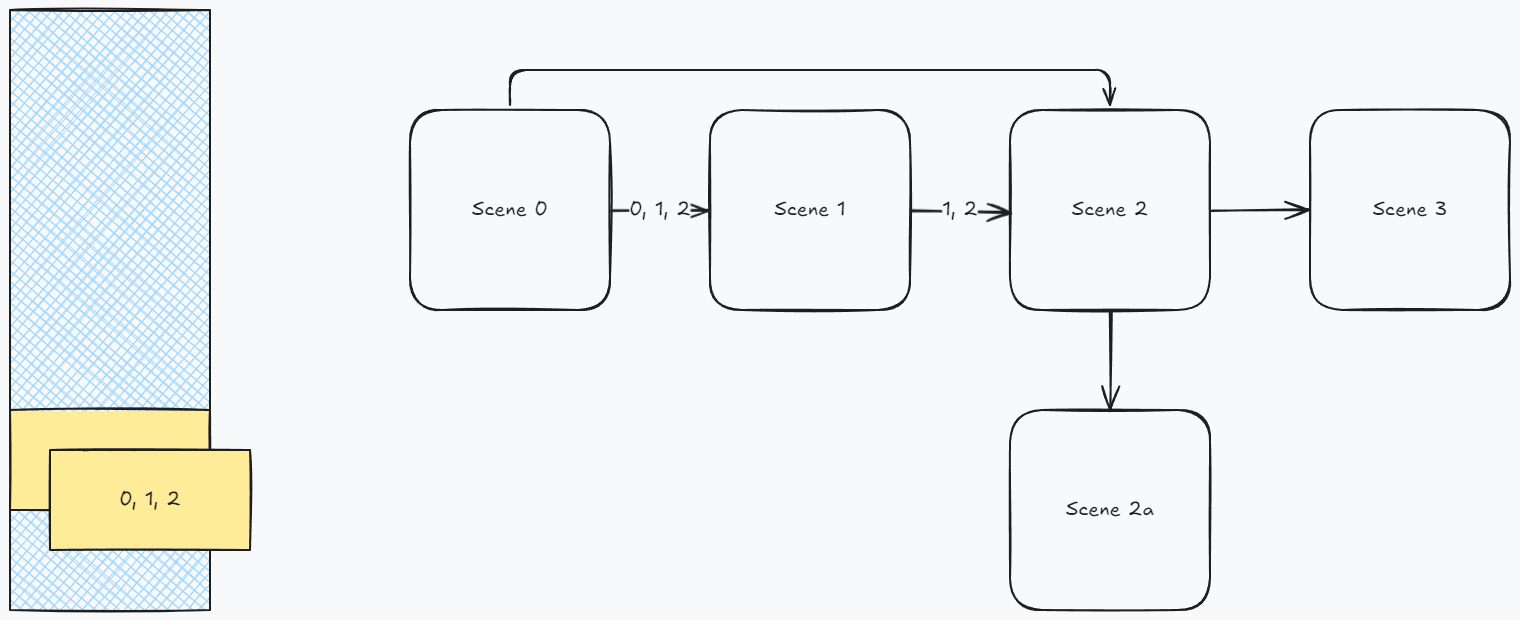
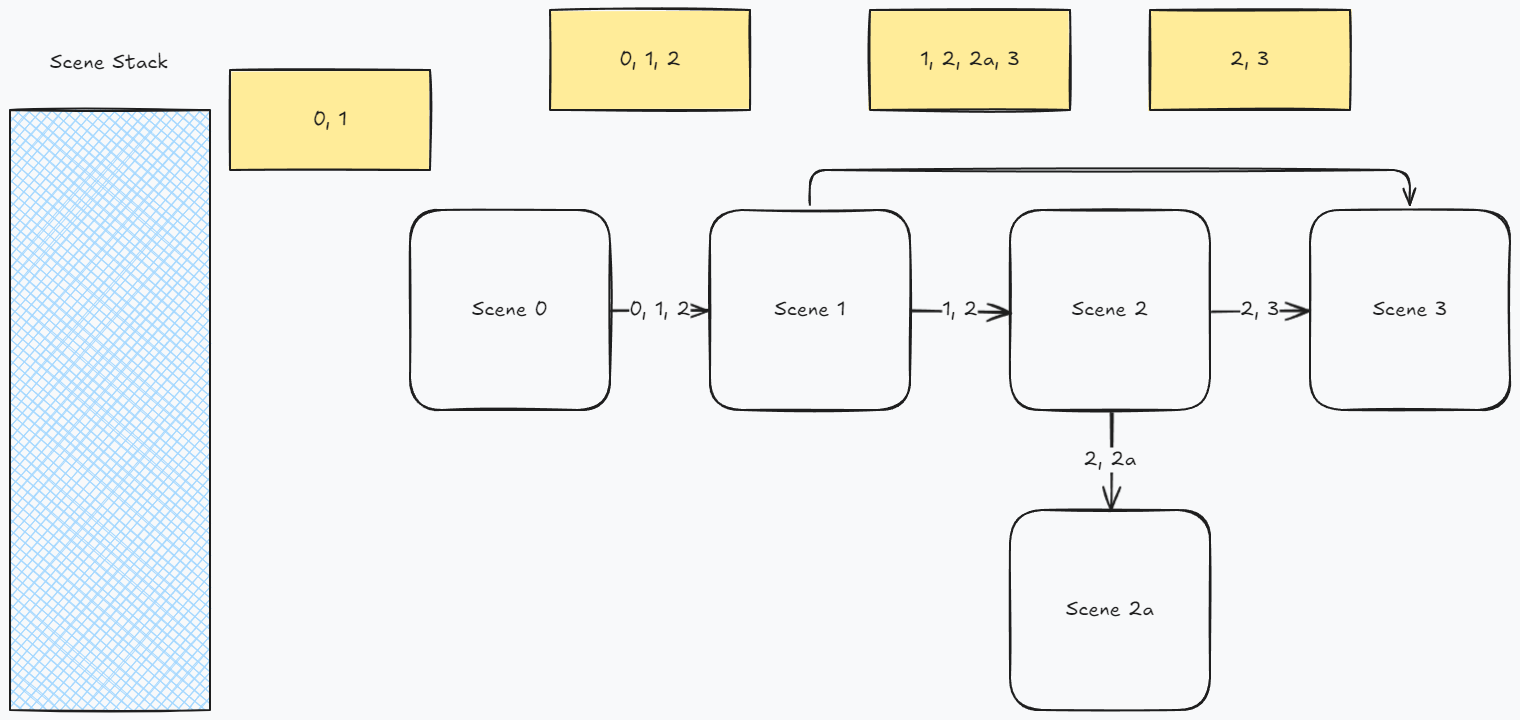
vault backup: 2024-11-11 14:41:20

diff --git a/_META/Excalidraw/Scene Loading Stack Idea.md b/_META/Excalidraw/Scene Loading Stack Idea.md
@@ -25,99 +25,112 @@ Scene 2a ^LOhyJkJ6
 
 1, 2 ^QoFNmcFQ
 
-0, 1, 2 ^uDaHopzA
+Initially Loaded
+0, 1 ^uDaHopzA
+
+1, 2, 2a, 3 ^BBxEjF0W
+
+2, 3 ^q63wx7L0
+
+2, 2a ^zw5oRGiN
+
+2, 3 ^ddEPpINe
+
+Scene Stack ^UkmSVNQU
 
 %%
 ## Drawing
 ```compressed-json
[2 lines of base64/hex data omitted]
 
[2 lines of base64/hex data omitted]
 
[2 lines of base64/hex data omitted]
 
[2 lines of base64/hex data omitted]
 
[2 lines of base64/hex data omitted]
 
[2 lines of base64/hex data omitted]
 
[2 lines of base64/hex data omitted]
 
[2 lines of base64/hex data omitted]
 
[2 lines of base64/hex data omitted]
 
[2 lines of base64/hex data omitted]
 
[2 lines of base64/hex data omitted]
 
[2 lines of base64/hex data omitted]
 
[2 lines of base64/hex data omitted]
 
[2 lines of base64/hex data omitted]
 
[2 lines of base64/hex data omitted]
 
[2 lines of base64/hex data omitted]
 
[2 lines of base64/hex data omitted]
 
[2 lines of base64/hex data omitted]
 
[2 lines of base64/hex data omitted]
 
[2 lines of base64/hex data omitted]
 
[2 lines of base64/hex data omitted]
 
[2 lines of base64/hex data omitted]
 
[2 lines of base64/hex data omitted]
 
[2 lines of base64/hex data omitted]
 
[2 lines of base64/hex data omitted]
 
[2 lines of base64/hex data omitted]
 
[2 lines of base64/hex data omitted]
 
[2 lines of base64/hex data omitted]
 
[2 lines of base64/hex data omitted]
 
[2 lines of base64/hex data omitted]
 
[2 lines of base64/hex data omitted]
 
[2 lines of base64/hex data omitted]
 
[2 lines of base64/hex data omitted]
 
[2 lines of base64/hex data omitted]
 
[2 lines of base64/hex data omitted]
 
[2 lines of base64/hex data omitted]
 
[2 lines of base64/hex data omitted]
 
[2 lines of base64/hex data omitted]
 
[2 lines of base64/hex data omitted]
 
[2 lines of base64/hex data omitted]
 
[2 lines of base64/hex data omitted]
 
[2 lines of base64/hex data omitted]
 
[2 lines of base64/hex data omitted]
 
[2 lines of base64/hex data omitted]
 
[2 lines of base64/hex data omitted]
+
[1 lines of base64/hex data omitted]
 ```
 %%
